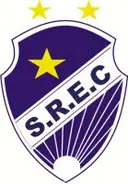
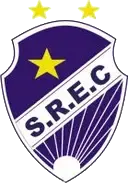
Escudos sem a caixa branca em volta (fundo transparente); remove diagnóstico da FERJ
Claude-Session: https://claude.ai/code/session_01KURSQmz2BHfMakW4thM8Jz

diff --git a/sw.js b/sw.js
@@ -1,5 +1,5 @@
 // FlaFan — permite abrir o app mesmo sem internet (mostra a última lista baixada).
-const VERSAO = 'flafan-v53';
+const VERSAO = 'flafan-v54';
 const ARQUIVOS = ['./', 'index.html', 'styles.css', 'app.js', 'manifest.webmanifest', 'icons/icon-192.png', 'icons/icon-512.png',
   'fonts/inter-latin-variavel.woff2', 'fonts/barlow-latin-400-normal.woff2', 'fonts/barlow-latin-500-normal.woff2', 'fonts/barlow-latin-600-normal.woff2', 'fonts/barlow-latin-700-normal.woff2',
   'fonts/barlow-condensed-latin-600-normal.woff2', 'fonts/barlow-condensed-latin-700-normal.woff2', 'fonts/barlow-condensed-latin-800-normal.woff2', 'fonts/barlow-condensed-latin-800-italic.woff2'];
